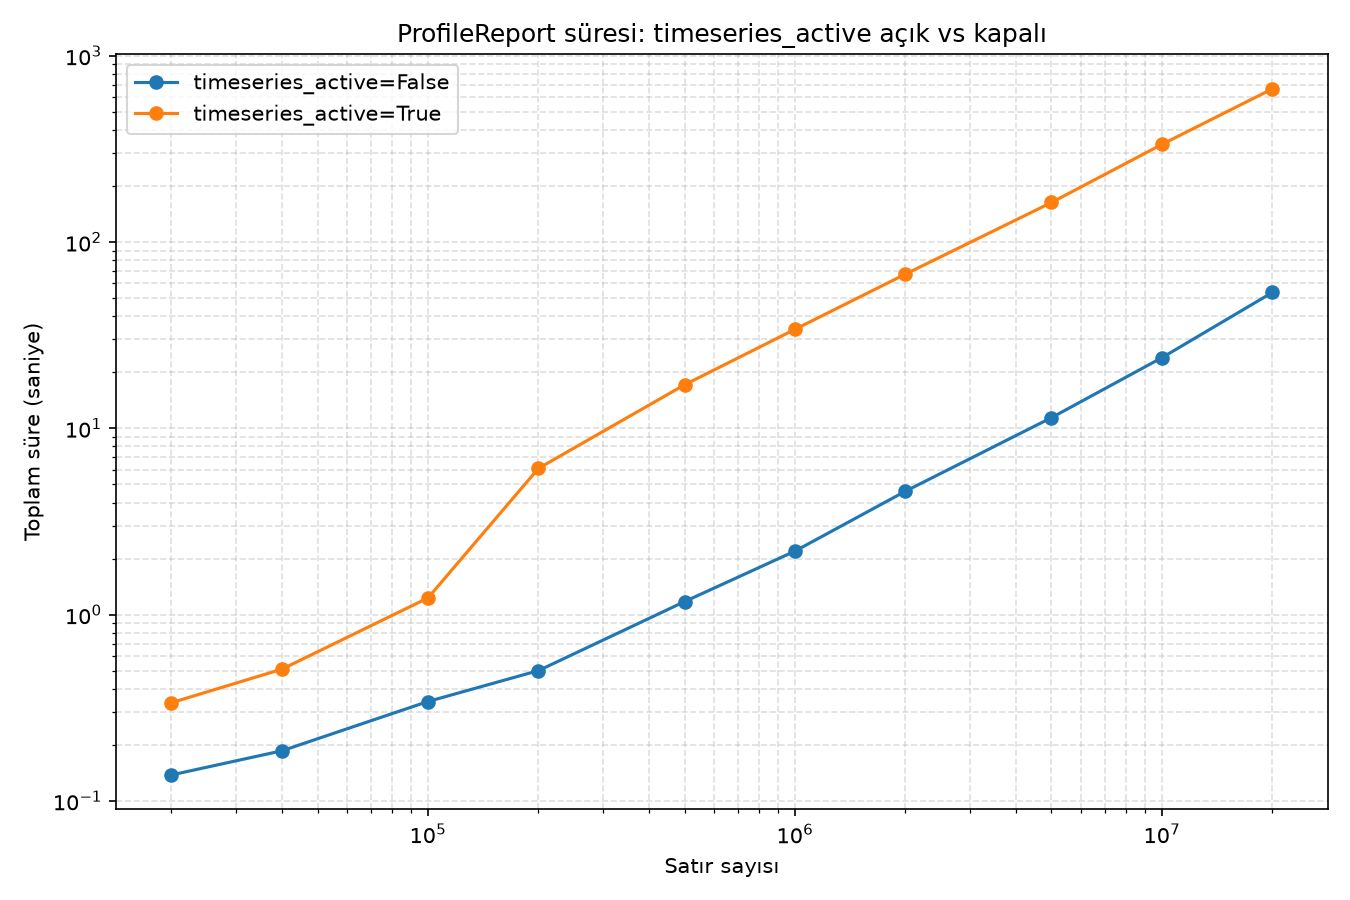
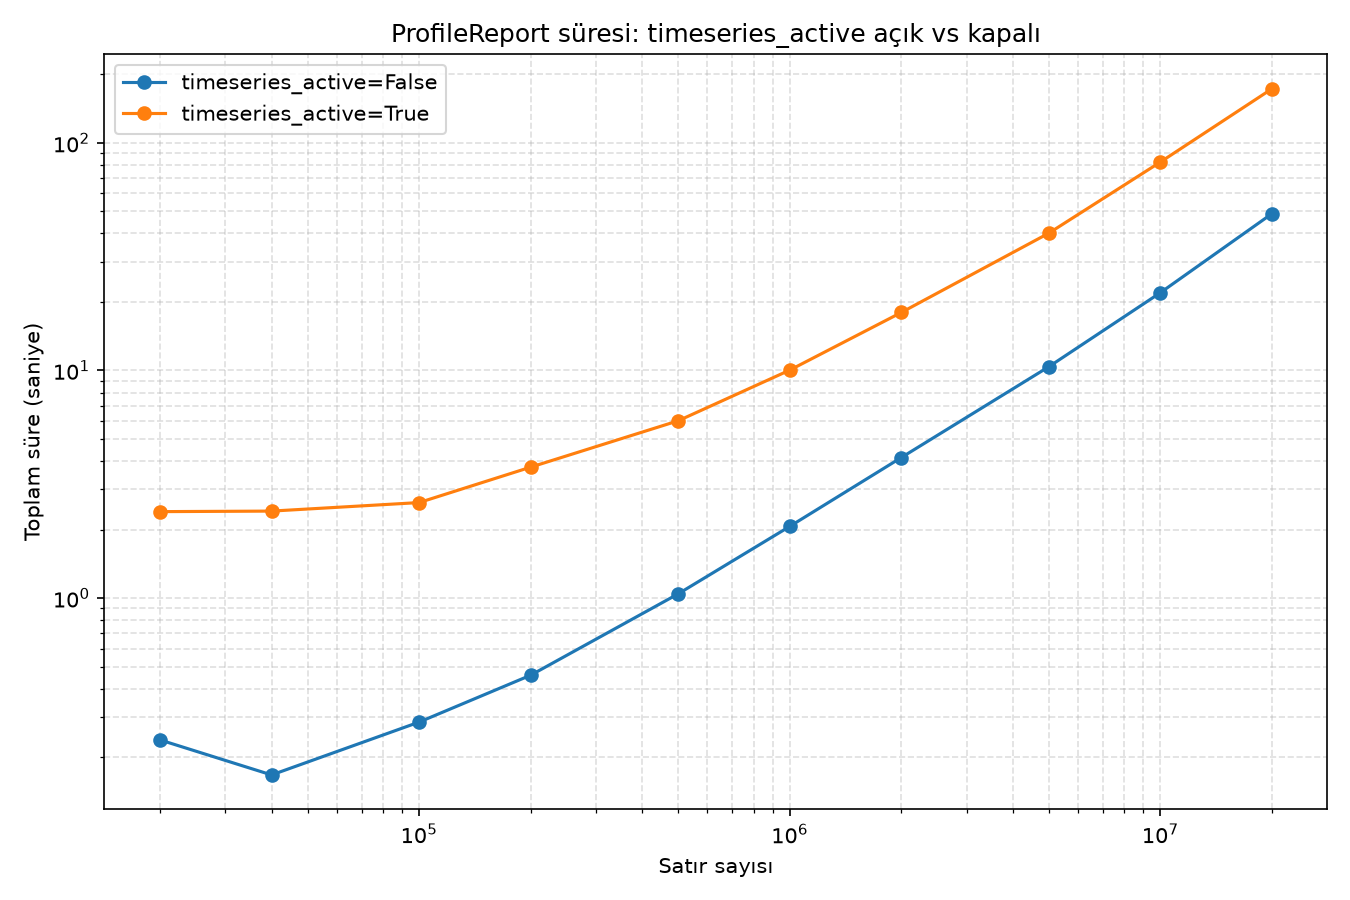
Lower ACF/PACF lag to 50 and parallelize timeseries columns
timeseries_acf_pacf_lag default reduced from 100 to 50 (cuts PACF cost roughly in half). compute_timeseries now processes each TIMESERIES column in a separate process via ProcessPoolExecutor when more than one column is detected.

Updated benchmark_chart.png with new results.

diff --git a/src/dataxid_profiling/_timeseries.py b/src/dataxid_profiling/_timeseries.py
@@ -1,5 +1,8 @@
 from __future__ import annotations
 
+import os
+from concurrent.futures import ProcessPoolExecutor, as_completed
+
 import polars as pl
 from statsmodels.tsa.stattools import adfuller
 from statsmodels.tsa.stattools import acf, pacf
@@ -23,34 +26,51 @@ def compute_timeseries(
 
     from dataxid_profiling._type_inference import ColumnType
 
+    ts_columns = [
+        col_name for col_name, col_type in column_types.items()
+        if col_type == ColumnType.TIMESERIES
+    ]
+
+    if not ts_columns:
+        return {}
+
+    if len(ts_columns) == 1:
+        col_name = ts_columns[0]
+        return {col_name: _analyze_timeseries_column(df[col_name].to_numpy(), config)}
+
     results: dict[str, dict] = {}
+    max_workers = min(len(ts_columns), os.cpu_count() or 1)
 
-    for col_name, col_type in column_types.items():
-        if col_type != ColumnType.TIMESERIES:
-            continue
-
-        series = df[col_name]
-        stationarity = stationarity_test(series, config)
-        seasonality = seasonality_test(series, config)
-        curve = acf_pacf_curve(series, config)
-
-        is_stationary = stationarity["is_stationary"]
-        is_seasonal = seasonality["seasonality_presence"]
-
-        # A seasonal series is not considered truly stationary, even if
-        # the ADF test alone suggests otherwise (matches YData's behavior).
-        if is_stationary is not None:
-            is_stationary = bool(is_stationary and not is_seasonal)
-
-        results[col_name] = {
-            **stationarity,
-            "is_stationary": is_stationary,
-            **seasonality,
-            **curve,
+    with ProcessPoolExecutor(max_workers=max_workers) as executor:
+        futures = {
+            executor.submit(_analyze_timeseries_column, df[col_name].to_numpy(), config): col_name
+            for col_name in ts_columns
         }
+        for future in as_completed(futures):
+            col_name = futures[future]
+            results[col_name] = future.result()
 
-    return results
+    return {col: results[col] for col in ts_columns}
 
+def _analyze_timeseries_column(values: np.ndarray, config: ProfileConfig) -> dict:
+    series = pl.Series(values)
+
+    stationarity = stationarity_test(series, config)
+    seasonality = seasonality_test(series, config)
+    curve = acf_pacf_curve(series, config)
+
+    is_stationary = stationarity["is_stationary"]
+    is_seasonal = seasonality["seasonality_presence"]
+
+    if is_stationary is not None:
+        is_stationary = bool(is_stationary and not is_seasonal)
+
+    return {
+        **stationarity,
+        "is_stationary": is_stationary,
+        **seasonality,
+        **curve,
+    }
 
 def stationarity_test(
     series: pl.Series,

diff --git a/src/dataxid_profiling/_config.py b/src/dataxid_profiling/_config.py
@@ -21,7 +21,7 @@ class ProfileConfig:
     timeseries_lags: tuple[int, ...] = (1, 7, 14, 30)  # daily/weekly/biweekly/monthly
     timeseries_significance: float = 0.05  # ADF p-value 
     timeseries_seasonality_mad_threshold: float = 6.0  # FFT peak
-    timeseries_acf_pacf_lag: int = 100  # max lag for the full ACF/PACF curve
+    timeseries_acf_pacf_lag: int = 50  # max lag for the full ACF/PACF curve
     timeseries_gap_tolerance: float = 2.0  # gap flagged if interval > tolerance × mean interval
 
     # Alert thresholds
